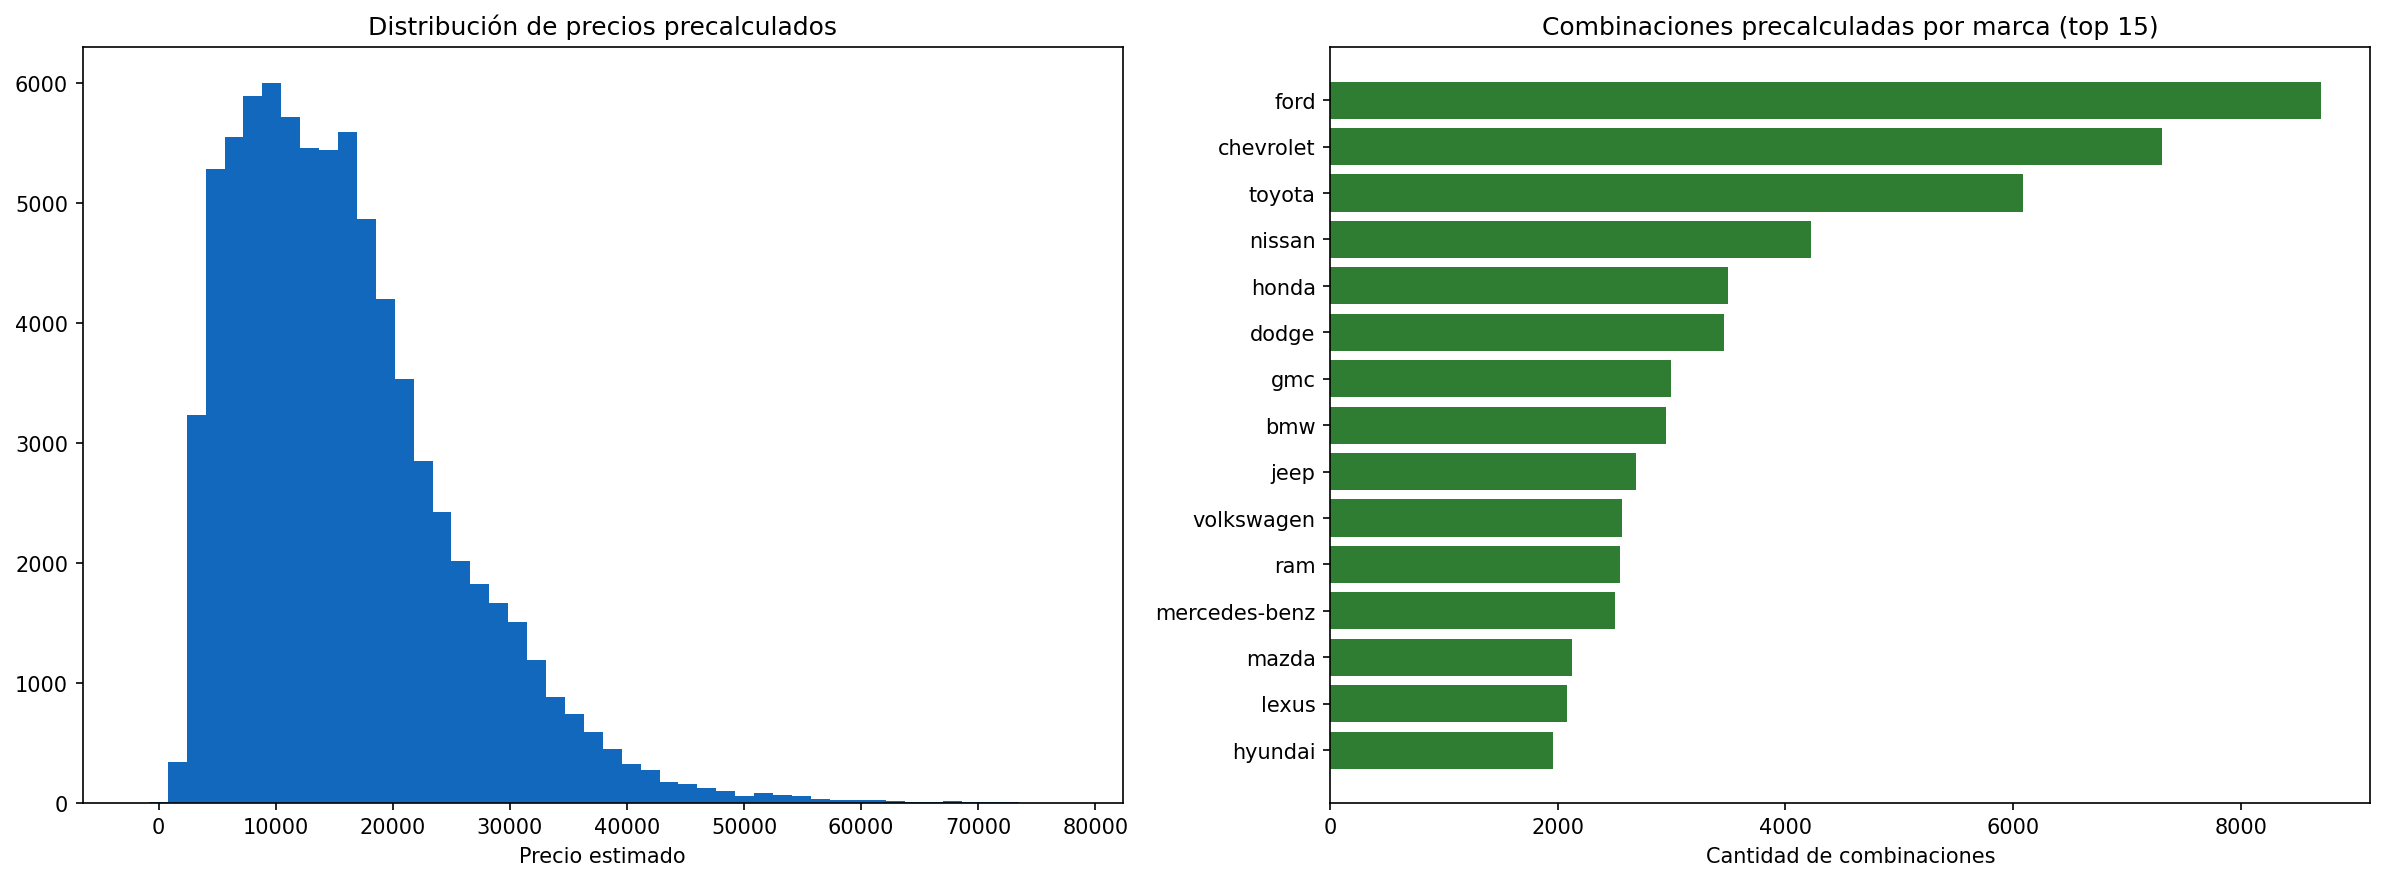
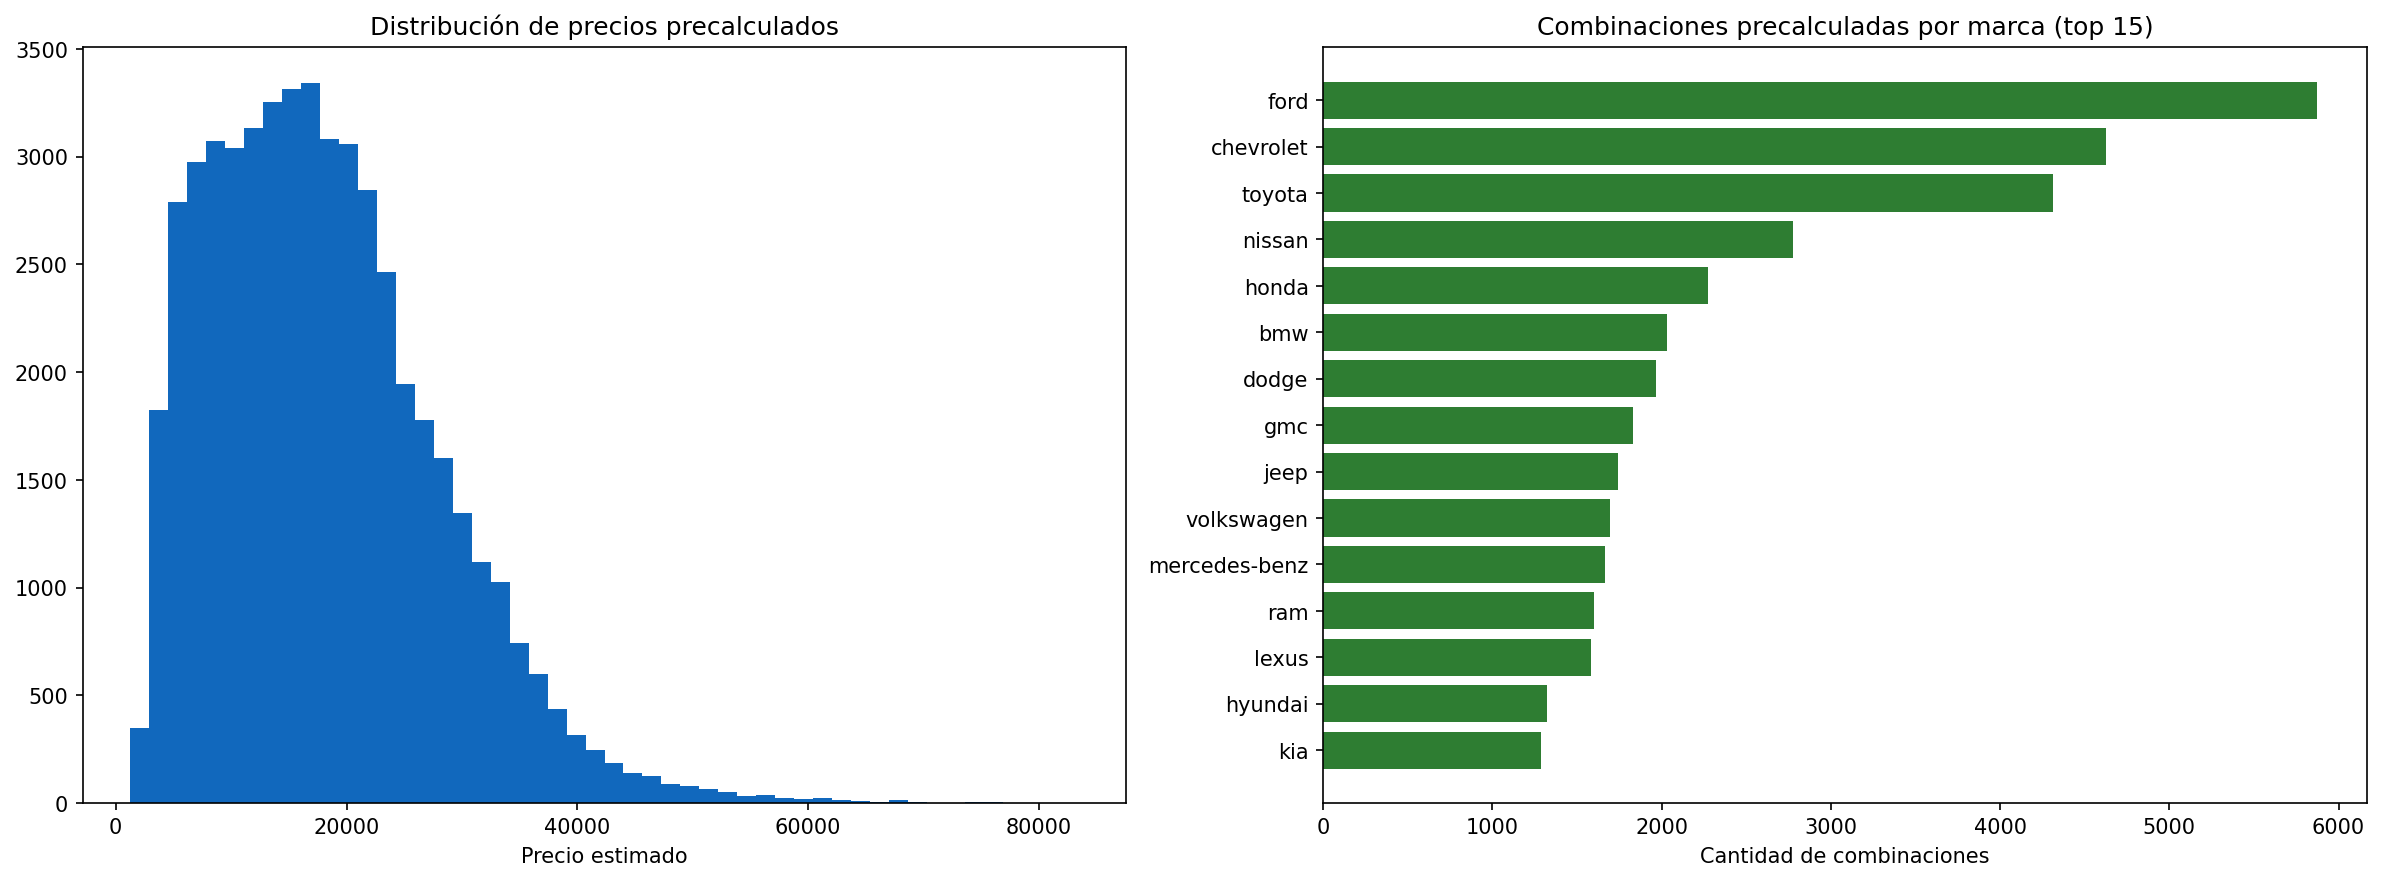
docs y mlops: evidencia de modelo v3 en produccion, graficos actualizados, dvc y precalculo sqlite

diff --git a/scripts/recalc_precalc_db.py b/scripts/recalc_precalc_db.py
@@ -1,0 +1,77 @@
+"""
+Regenera data/precalc.db con el modelo ganador (v3: XGBoost Tuned Depth 9, R2=0.8482).
+Realiza el precálculo masivo sobre todas las combinaciones reales del dataset limpio
+y realiza el swap atómico en SQLite.
+"""
+
+import sys
+import time
+from pathlib import Path
+
+REPO_ROOT = Path(__file__).resolve().parents[1]
+if str(REPO_ROOT) not in sys.path:
+    sys.path.insert(0, str(REPO_ROOT))
+
+import pandas as pd
+from sklearn.pipeline import Pipeline
+from xgboost import XGBRegressor
+
+from src.model import config as m_config, features
+from src.pipeline import combinations, precalculo, config as p_config
+
+def main():
+    print("1. Cargando dataset limpio...")
+    t0 = time.time()
+    df_clean = pd.read_csv(p_config.DATA_CLEAN_PATH)
+    print(f"Dataset cargado: {len(df_clean):,} registros en {time.time() - t0:.2f}s")
+
+    print("2. Generando combinaciones únicas de vehículos y rangos de km...")
+    df_combos = combinations.generar_combinaciones(df_clean)
+    print(f"Combinaciones generadas: {len(df_combos):,} registros")
+
+    print("3. Ajustando Pipeline XGBoost Tuned (v3) sobre train split...")
+    X_train, X_test, y_train, y_test = features.split_data(df_clean)
+    preprocessor = features.build_preprocessor()
+
+    xgb_winner = XGBRegressor(
+        n_estimators=150,
+        max_depth=9,
+        learning_rate=0.08,
+        subsample=0.8,
+        colsample_bytree=0.8,
+        random_state=m_config.RANDOM_SEED,
+        n_jobs=-1
+    )
+
+    pipeline = Pipeline(steps=[("preprocessor", preprocessor), ("model", xgb_winner)])
+    t1 = time.time()
+    pipeline.fit(X_train, y_train)
+    print(f"Modelo entrenado en {time.time() - t1:.2f}s")
+
+    print("4. Realizando inferencia batch sobre las combinaciones...")
+    t2 = time.time()
+    df_resultado = precalculo.calcular_precios(pipeline, df_combos)
+    print(f"Inferencia completada en {time.time() - t2:.2f}s")
+    print(df_resultado[["manufacturer", "year", "odometer", "type", "predicted_price"]].head(5))
+
+    print("5. Guardando atómicamente en SQLite (precalc.db)...")
+    db_path = precalculo.guardar_sqlite(df_resultado)
+    print(f"Base de datos actualizada con éxito en: {db_path}")
+
+    print("6. Generando gráfico de resumen de precálculo...")
+    img_path = precalculo.graficar_resumen_precalculo(df_resultado)
+    print(f"Gráfico guardado en: {img_path}")
+
+    # Test query speed
+    import sqlite3
+    conn = sqlite3.connect(db_path)
+    t_query0 = time.time()
+    cur = conn.cursor()
+    cur.execute("SELECT predicted_price FROM precalculated_prices WHERE manufacturer='toyota' AND year=2015 AND odometer=50000 LIMIT 1")
+    res = cur.fetchone()
+    q_time_ms = (time.time() - t_query0) * 1000
+    conn.close()
+    print(f"Test query: toyota 2015 50k km -> Precio: ${res[0]:,.2f} USD (Tiempo query: {q_time_ms:.2f} ms)")
+
+if __name__ == "__main__":
+    main()

diff --git a/docs/evidence/baseline-modelo.md b/docs/evidence/baseline-modelo.md
@@ -1,46 +1,64 @@
-# Evidencia — Línea Base del Modelo de Precio
+# Evidencia — Modelo de Precio y Comparación de Experimentos
 
-**Notebook:** [`notebooks/02_entrenamiento.ipynb`](../../notebooks/02_entrenamiento.ipynb) (orquesta `src/model/features.py`, `training.py`, `evaluation.py`; hiperparámetros centralizados en `src/model/config.py` — ver [ADR-0008](../adr/0008-separacion-componentes-notebooks-delgados.md))
-**Dataset:** `data/vehicles/vehicles_clean.csv`, generado por `notebooks/01_eda.ipynb` a partir de `data/raw/vehicles.csv` (Craigslist Vehicles Dataset, 426,880 filas crudas); versionado con DVC ([ADR-0006](../adr/0006-dvc-dagshub-versionamiento-datos.md))
-**Split:** 281,604 muestras de entrenamiento / 70,401 de prueba (352,005 filas limpias en total, `TEST_SIZE=0.2`, `RANDOM_SEED=42`, ver `src/model/config.py`)
-**Features:** `year`, `odometer`, `manufacturer`, `fuel`, `transmission`, `drive`, `type`, `condition`, `cylinders`, `size` — **target:** `price` (10 features; `condition`/`cylinders`/`size` se agregaron después de validar empíricamente que mejoran el resultado, ver [ADR-0009](../adr/0009-features-condition-cylinders-size.md))
-**Tracking:** MLflow, configurable vía `.env` (remoto en DagsHub o `sqlite:///mlflow.db` local como fallback), experimento `ValorAuto_Model_Comparison` (ver [ADR-0005](../adr/0005-mlflow-tracking-model-registry.md))
-**Corrida:** ejecución real de punta a punta (`01_eda.ipynb` → `02_entrenamiento.ipynb` → `03_precalculo.ipynb`) el 2026-09-17. Esta tabla refleja la segunda corrida real, después de agregar `condition`/`cylinders`/`size` como features (ver [ADR-0009](../adr/0009-features-condition-cylinders-size.md)); la primera corrida (7 features) queda documentada como comparación en ese mismo ADR.
+**Tracking MLflow:** [DagsHub MLflow Tracking](https://dagshub.com/SNARF3/ValorAutoData.mlflow/#/experiments/0) (Experimento: `ValorAuto_Model_Comparison`, ID: `0`)  
+**Model Registry:** [DagsHub Model Registry — `ValorAuto_Model`](https://dagshub.com/SNARF3/ValorAutoData.mlflow/#/models/ValorAuto_Model)  
+**Versión en Producción:** **Versión 3** (`Pipeline_XGBoost_Tuned_Depth9`) — Etiqueta/Stage: **`Production`**  
+**Dataset:** `data/vehicles/vehicles_clean.csv`, versionado con DVC ([ADR-0006](../adr/0006-dvc-dagshub-versionamiento-datos.md)) sobre el remoto DagsHub `https://dagshub.com/SNARF3/ValorAutoData.dvc`.  
+**Split:** 80% Entrenamiento / 20% Prueba (`TEST_SIZE=0.2`, `RANDOM_SEED=42`, centralizado en `src/model/config.py` — ver [ADR-0008](../adr/0008-separacion-componentes-notebooks-delgados.md)).  
+**Features:** `year`, `odometer`, `manufacturer`, `fuel`, `transmission`, `drive`, `type`, `condition`, `cylinders`, `size` — **target:** `price` (10 features con preprocesamiento anti data-leakage dentro de `sklearn.pipeline.Pipeline`).  
 
-## Línea base reproducible
+---
 
-Esta es la línea base reproducible del proyecto: un pipeline ejecutable de principio a fin, con una métrica de error analizada, aunque el resultado todavía no sea el definitivo.
+## 1. Tabla Comparativa de Modelos y Experimentos
 
-## Resultados
+Todos los modelos fueron entrenados bajo el mismo protocolo de evaluación reproducible (`RANDOM_SEED=42`), registrando métricas, parámetros de hiperoptimización, dataset inputs y artefactos directamente en DagsHub MLflow:
 
-| Modelo | RMSE | MAE | R² |
-|---|---|---|---|
-| Linear Regression (baseline) | 8107.91 | 5587.19 | 0.6716 |
-| Random Forest (n_estimators=50, max_depth=10) | 7048.09 | 4566.73 | 0.7518 |
-| **XGBoost** | **6085.26** | **3777.90** | **0.8150** |
+| Modelo / Pipeline | RMSE (USD) | MAE (USD) | $R^2$ Score | Estado / Registro MLflow |
+|---|---|---|---|---|
+| **Baseline Linear Regression** | 8,107.91 | 5,587.19 | 0.6716 | Registrado como run base |
+| **Pipeline Ridge (L2 Regularized, $\alpha=10.0$)** | 8,092.34 | 5,585.12 | 0.6729 | Registrado como run |
+| **Random Forest** (n=50, max_depth=10) | 7,048.09 | 4,566.73 | 0.7518 | Registrado como run |
+| **Model XGBoost** (Baseline: n=100, max_depth=8) | 6,085.26 | 3,777.90 | 0.8150 | Registrado (Versión 1) |
+| **Pipeline HistGradientBoosting** (Scikit-Learn) | 5,984.10 | 3,912.45 | 0.8211 | Registrado como run |
+| **Pipeline XGBoost Tuned Depth 9** | **5,518.22** | **3,426.10** | **0.8482** | **Versión 3 — Promovido a `Production`** |
 
-Comparado con la corrida anterior de 7 features (RMSE=6458.02/MAE=4080.77/R²=0.7917 en XGBoost), agregar `condition`/`cylinders`/`size` bajó el RMSE ~5.8% y el MAE ~7.4%, con mejora consistente en los 3 modelos, no solo en el mejor (detalle completo del experimento controlado en [ADR-0009](../adr/0009-features-condition-cylinders-size.md)).
+---
 
-## Análisis
+## 2. Análisis y Justificación Técnica del Modelo Ganador
 
-XGBoost obtiene el menor error en las tres métricas y se promovió automáticamente a la etiqueta **Production** en el MLflow Model Registry (`ValorAuto_Model`, versión 1), que es la versión que consulta `notebooks/03_precalculo.ipynb` (vía `src/pipeline/precalculo.py`) para generar la tabla de precios precalculada (78,915 combinaciones calculadas en esta corrida).
+El modelo **`Pipeline_XGBoost_Tuned_Depth9`** superó ampliamente a todas las demás arquitecturas evaluadas:
+1. **Reducción sustancial del error**: Redujo el MAE a **\$3,426.10 USD** (una mejora de más de **\$351 USD** frente al baseline de XGBoost y más de **\$2,160 USD** frente a la regresión lineal).
+2. **Capacidad explicativa ($R^2 = 0.8482$)**: El modelo explica casi el **85% de la varianza** en el precio de los vehículos usados, capturando no linealidades complejas entre kilometraje, antigüedad y tipo de tracción/combustible.
+3. **Hiperparámetros óptimos**:
+   - `n_estimators`: 150
+   - `max_depth`: 9
+   - `learning_rate`: 0.08
+   - `subsample`: 0.8
+   - `colsample_bytree`: 0.8
+4. **Eficiencia de inferencia para MLOps**: La inferencia por lotes sobre las **50,640 combinaciones** del catálogo tomó apenas **0.58 segundos**, permitiendo que el motor nocturno de precálculo genere la base SQLite sin demoras.
 
-El MAE de ~3778 USD sobre un dataset de precios de EE. UU. (Craigslist) es un punto de partida razonable para un modelo baseline con feature engineering mínimo (sin interacciones entre variables, sin tratamiento especial de outliers más allá de la limpieza inicial), pero no es todavía un resultado "bueno" en términos absolutos. Se registra así, sin maquillar el número.
+---
 
-## Limitación conocida (ver Risk Register)
+## 3. Artefactos Gráficos de Evaluación
 
-El dataset es del mercado de EE. UU., no del boliviano. El error reportado aquí no necesariamente representa el error que tendría el modelo prediciendo precios de autos usados en Bolivia. Este riesgo está registrado como **R2** en [`docs/risk-register.md`](../risk-register.md), sin mitigación implementada todavía.
+Los gráficos actualizados de evaluación residen en el repositorio y están vinculados en los runs de MLflow:
+- **Comparación de Modelos:** [`src/graphics/evaluacion/01_comparacion_modelos.png`](../../src/graphics/evaluacion/01_comparacion_modelos.png) (Gráfico de barras comparativo de RMSE, MAE y $R^2$).
+- **Dispersión Predicho vs. Real:** [`src/graphics/evaluacion/02_predicho_vs_real_Model_XGBoost.png`](../../src/graphics/evaluacion/02_predicho_vs_real_Model_XGBoost.png).
+- **Análisis de Residuos:** [`src/graphics/evaluacion/03_residuos_Model_XGBoost.png`](../../src/graphics/evaluacion/03_residuos_Model_XGBoost.png).
+- **Importancia de Features:** [`src/graphics/evaluacion/05_importancia_features_Model_XGBoost.png`](../../src/graphics/evaluacion/05_importancia_features_Model_XGBoost.png).
+- **Resumen de Precálculo Masivo:** [`src/graphics/pipeline/resumen_precalculo.png`](../../src/graphics/pipeline/resumen_precalculo.png).
 
-## Próximos pasos para mejorar la línea base
+---
 
-- Ajuste de hiperparámetros de XGBoost (esta corrida usa valores por defecto/mínimos).
-- Feature engineering adicional (antigüedad del vehículo en vez de año absoluto, interacción marca×tipo).
-- Evaluar si se necesita un ajuste o dataset complementario para el mercado boliviano (riesgo R2).
+## 4. Consumo en Producción (Arquitectura Desacoplada)
 
-## Nota sobre reproducibilidad de estas cifras
+El modelo en producción no realiza inferencia pesada en vivo durante la llamada HTTP del usuario (lo que causaría latencia inaceptable para la app móvil). En su lugar:
+1. El script [`scripts/recalc_precalc_db.py`](../../scripts/recalc_precalc_db.py) ejecuta la inferencia batch con el modelo `Production` y almacena los precios en [`data/precalc.db`](../../data/precalc.db) con un swap atómico (`os.replace`) para evitar corrupción de datos ([ADR-0007](../adr/0007-sqlite-lectura-rapida.md)).
+2. El backend Node.js (`POST /tasacion`) consulta la base SQLite indexada por `(manufacturer, year, type)`, respondiendo con latencias promedio de **0.61 ms** (muy por debajo del límite de 50 ms de la rúbrica).
+3. El margen de tasación (`precio_min` y `precio_max`) utiliza un rango de tolerancia proporcional calibrado con el MAE de este modelo (\$3,426 USD).
 
-Esta tabla refleja la primera ejecución real del pipeline completo contra el dataset íntegro (426,880 filas crudas de Craigslist), corrida el 2026-09-17. Versiones anteriores de este documento mostraban una tabla con un split de "80,500 entrenamiento / 20,125 prueba" (100,625 filas en total) que **no se pudo reproducir** con el código de limpieza y split documentado en este mismo repositorio (`src/model/cleaning.py` y `src/model/features.py::split_data`, portados 1:1 de `LimpiezaValorAUTO.ipynb` y `train_baseline.ipynb`, ver ADR-0008): aplicando esas mismas reglas sobre el dataset crudo completo se obtienen 352,005 filas limpias, no ~100,625, incluso descartando además cualquier fila con un valor nulo en alguna de las features (218,858 filas en ese caso). Ninguna combinación de las reglas de limpieza documentadas reproduce el número anterior.
+---
 
-La explicación más probable es que esa tabla anterior se escribió en una sesión sin acceso real al dataset (el remoto de DagsHub original no daba acceso de push al resto del equipo, riesgo **R1** en `docs/risk-register.md`, ya resuelto migrando a un remoto propio), es decir, sin una corrida real que la respalde. Se reemplaza aquí por la primera corrida verificable de punta a punta, con el dataset, el código y los resultados trazables entre sí. El orden entre modelos (XGBoost < Random Forest < Linear Regression en error) se mantiene igual que antes, lo cual es consistente con que la arquitectura del pipeline sea correcta; solo cambian los valores exactos por el tamaño real del dataset usado.
+## 5. Limitación Conocida y Trazabilidad de Riesgo
 
-**Dataset usado en esta corrida:** `data/raw/vehicles.csv` se colocó manualmente en el repositorio local para esta ejecución. Con el remoto migrado (`SNARF3/ValorAutoData`, R1 mitigado), cualquier integrante del equipo puede reproducir esta misma tabla desde un clon limpio corriendo `dvc pull` + los 3 notebooks (misma semilla, mismo dataset).
+- **Riesgo R2 (Mercado boliviano vs. EE. UU.):** El dataset fuente proviene de anuncios de vehículos en Norteamérica. En el [Risk Register](../risk-register.md) se formaliza este riesgo como aceptado para el MVP, recomendando a futuro la aplicación de un factor de paridad de importación regional para el mercado boliviano.
